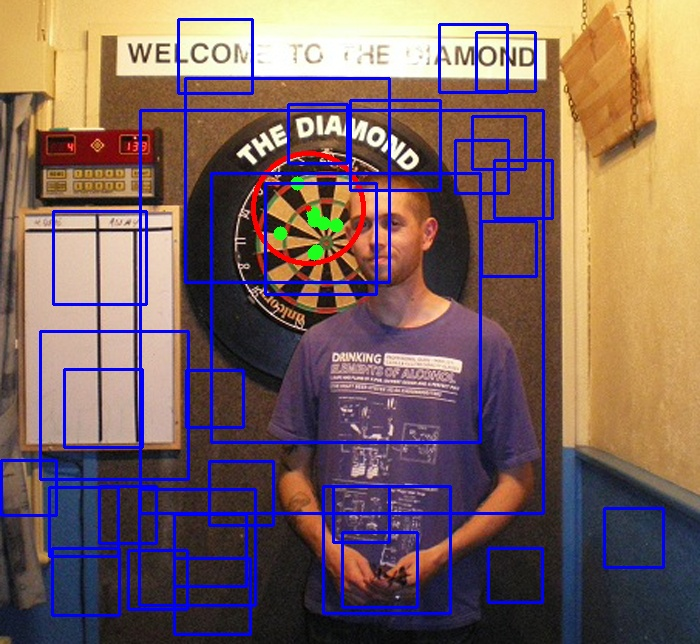
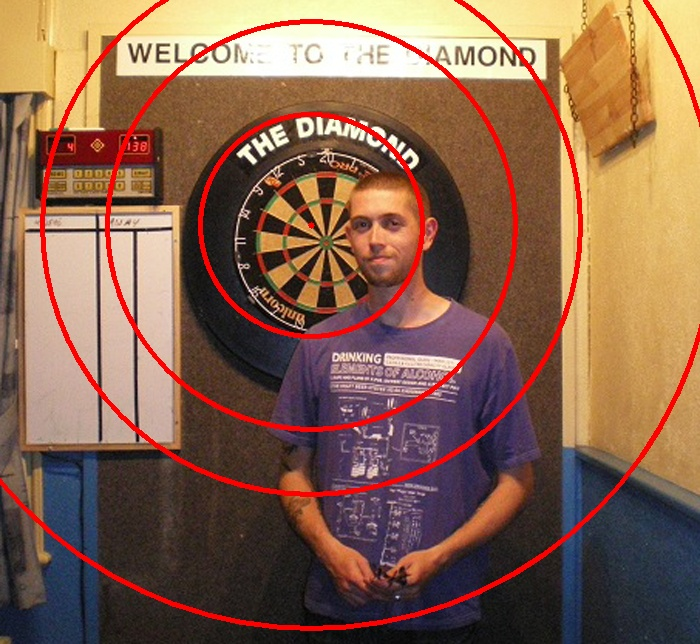
First iteration of combination, ONLY Lines + Viola

diff --git a/Assignment/task3/task.cpp b/Assignment/task3/task.cpp
@@ -36,17 +36,19 @@ class Detector {
     vector<Rect> viola_hits;
     vector<DartBoard> dartboards;
     public:
-        Mat image, overlay_image;
+        Mat image, overlay_image, detections_image;
         int read_image (char*);
         int load_cascade (char*);
         void convert_grey();
         Mat convolve(Mat);
         void sobel();
-        void write_image_mag(String);
         void houghTransformLine();
         void houghTransformCircle();
         void violaJones();
+        void combineDectections();
+        void write_image_mag(String);
         void write_overlay_image(String);
+        void write_detections_image(String);
 };
 
 Mat Detector::convolve (Mat kernel) {
@@ -302,12 +304,55 @@ void Detector::violaJones() {
     return;
 }
 
+void Detector::combineDectections() {
+    vector<Rect>::iterator viola;
+    for (viola = viola_hits.begin(); viola!= viola_hits.end(); ++viola) {
+        vector<Point> hits;
+
+        vector<Point>::iterator line_hit;
+        for (line_hit = line_hits.begin(); line_hit != line_hits.end(); ++line_hit) {
+
+            if (line_hit->x >= viola->x && line_hit->y >= viola->y && line_hit->x <= (viola->x + viola->width) && line_hit->y <= (viola->y + viola->height)) {
+                hits.push_back(*line_hit);
+            }
+
+        }
+
+        if(hits.empty()) {
+            continue;
+        }
+
+        float avx, avy, radius;
+        avx = 0;
+        avy = 0;
+        vector<Point>::iterator point;
+        for (point = hits.begin(); point != hits.end(); ++point) {
+            avx += point->x;
+            avy += point->y;
+        }
+        avx = avx / hits.size();
+        avy = avy / hits.size();
+        radius = (viola->width + viola->height) / 2;
+
+        DartBoard dartboard;
+        dartboard.center = {int(avx), int(avy)};
+        dartboard.radius = radius;
+        dartboards.push_back(dartboard);
+    }
+
+    return;
+}
+
+
 int Detector::read_image (char* path) {
     image = imread(path, CV_LOAD_IMAGE_COLOR);
     if(!image.data){
         printf("No image data \n");
         return -1;
     }
+
+    overlay_image = image.clone();
+    detections_image = image.clone();
 
     return 0;
 }
@@ -340,19 +385,17 @@ void Detector::write_overlay_image(String path) {
     return;
 }
 
-//void Detector::CombineDectections() {
-//   //vector<Point> line_hits;
-//   //vector<CircleDetection> circle_hits;
-//   //vector<Rect> viola_hits;
-//
-//   vector<Point>::iterator center;
-//   for (center = centers.begin(); center != centers.end(); ++center) {
-//           printf("%d-%d\n", center->x, center->y);
-//   }
-//
-//
-//   return;
-//}
+void Detector::write_detections_image(String path) {
+    vector<DartBoard>::iterator dartboard;
+    for (dartboard = dartboards.begin(); dartboard != dartboards.end(); ++dartboard) {
+        circle(detections_image, dartboard->center, 3, Scalar(0,0,255), -1, 8, 0 );
+        circle(detections_image, dartboard->center, dartboard->radius, Scalar(0,0,255), 3, 8, 0 );
+    }
+
+    imwrite(path, detections_image);
+
+    return;
+}
 
 int main( int argc, char** argv ) {
     Detector detector;
@@ -368,7 +411,6 @@ int main( int argc, char** argv ) {
         return -1;
     }
 
-    detector.overlay_image = detector.image;
     detector.convert_grey();
 
     detector.sobel();
@@ -376,7 +418,10 @@ int main( int argc, char** argv ) {
     detector.houghTransformCircle();
     detector.violaJones();
 
-    detector.write_overlay_image(argv[2]);
+    detector.combineDectections();
+
+    //detector.write_overlay_image(argv[2]);
+    detector.write_detections_image(argv[2]);
 
     return 0;
 }
